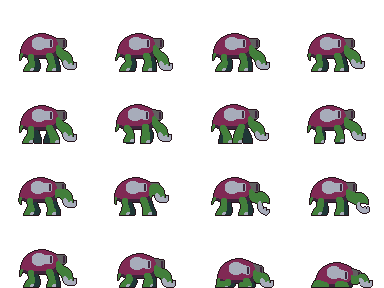
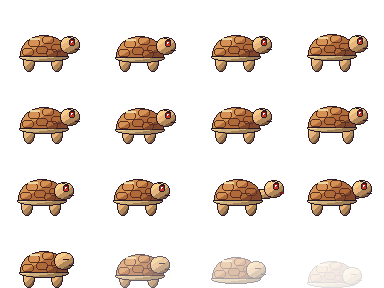
Tank and fast enemies redrawn in the hero's style (D218): desert turtle and centipede drawn by Scripts/Tools/draw_enemy_sheets.py — chibi proportions, hero's outline and light bands, red eye with an angry brow; same grid as D214, scenes untouched; the unknown-origin ChatGPT-folder art and its builde
Claude-Session: https://claude.ai/code/session_01A2gnDWaoeJGbj3GPH4dnCF

diff --git a/Scripts/Tools/draw_enemy_sheets.py b/Scripts/Tools/draw_enemy_sheets.py
@@ -1,0 +1,255 @@
+"""Малює листи спрайтів ворогів у стилі героя (D218): чибі-пропорції, темний контур, 3 тони світла згори зліва.
+
+Замість арту з теки «ChatGPT Image…» (D214, походження невідоме). Сітка та сама, що в D214, тож сцени
+enemy_tank.tscn / enemy_fast.tscn не змінюються: клітинка 96x72, ступні на нижньому рядку, морда праворуч,
+рядки idle / walk / attack / death.
+  tank = пустельна черепаха, 4 кадри на рядок; fast = багатоніжка, 6 кадрів (idle / walk / death — 4).
+Запуск: python Scripts/Tools/draw_enemy_sheets.py
+"""
+
+import math
+from PIL import Image
+
+OUT = "SampleProject/Assets/Characters/Enemies/"
+CW, CH = 96, 72
+GROUND = 71
+OUTLINE = (40, 23, 36, 255)  # контур героя
+LIGHT = (-0.55, -0.8)
+
+# Палітри: 4 тони від світлого до тіні (як у героя: світло, основа, тінь, глибока тінь).
+SKIN = [(244, 206, 138), (231, 181, 123), (175, 135, 89), (122, 88, 60)]
+SHELL = [(214, 146, 82), (176, 106, 58), (128, 70, 44), (88, 46, 34)]
+SHELL_RIM = [(240, 214, 160), (210, 178, 124), (160, 128, 86), (112, 86, 60)]
+CHITIN = [(226, 120, 70), (186, 78, 52), (132, 50, 42), (86, 32, 34)]
+BELLY = [(246, 214, 160), (222, 182, 128), (176, 136, 92), (128, 94, 66)]
+EYE_IRIS = (190, 38, 30, 255)
+
+
+class Canvas:
+    def __init__(self):
+        self.im = Image.new("RGBA", (CW, CH))
+        self.px = self.im.load()
+
+    def put(self, x, y, c):
+        if 0 <= x < CW and 0 <= y < CH:
+            self.px[x, y] = c if len(c) == 4 else c + (255,)
+
+    def part(self, mask, shade, outline=OUTLINE):
+        """Малює частину: тон за shade(x, y) -> 0..3, контур по краю маски (поверх того, що під нею)."""
+        for x, y in mask:
+            edge = any(
+                (x + dx, y + dy) not in mask
+                for dx, dy in ((1, 0), (-1, 0), (0, 1), (0, -1))
+            )
+            if edge:
+                self.put(x, y, outline)
+            else:
+                self.put(x, y, shade(x, y))
+
+
+def ellipse(cx, cy, rx, ry, angle=0.0):
+    ca, sa = math.cos(angle), math.sin(angle)
+    m = set()
+    for y in range(int(cy - max(rx, ry)) - 1, int(cy + max(rx, ry)) + 2):
+        for x in range(int(cx - max(rx, ry)) - 1, int(cx + max(rx, ry)) + 2):
+            dx, dy = x + 0.5 - cx, y + 0.5 - cy
+            u, v = dx * ca + dy * sa, -dx * sa + dy * ca
+            if (u / rx) ** 2 + (v / ry) ** 2 <= 1.0:
+                m.add((x, y))
+    return m
+
+
+def lit(cx, cy, rx, ry, pal, bias=0.0):
+    """Тон за нормаллю еліпса до світла: 3 смуги + глибока тінь знизу."""
+
+    def f(x, y):
+        nx, ny = (x + 0.5 - cx) / rx, (y + 0.5 - cy) / ry
+        d = nx * LIGHT[0] + ny * LIGHT[1] + bias
+        i = 0 if d > 0.45 else 1 if d > -0.1 else 2 if d > -0.6 else 3
+        return pal[i]
+
+    return f
+
+
+def flat(pal, i=1):
+    return lambda x, y: pal[i]
+
+
+def eye(c, x, y, look=1, closed=False):
+    """Кругле чибі-око як у героя: темний обідок, червона райдужка майже на все око, білий блік;
+    над ним зла брова, що опускається до носа. (x, y) — верхній лівий кут 6x7."""
+    if closed:
+        for i in range(6):
+            c.put(x + i, y + 4, OUTLINE)
+        return
+    c.part(ellipse(x + 3, y + 3.5, 3.4, 3.8), lambda px, py: (150, 30, 28) if py < y + 4 else (196, 58, 38))
+    c.put(x + 1 + max(look, 0), y + 2, (255, 255, 255))
+    c.put(x + 2 + max(look, 0), y + 2, (255, 255, 255))
+    c.put(x + 1 + max(look, 0), y + 3, (255, 255, 255))
+    for i in range(7):
+        c.put(x - 1 + i, y - 2 + i // 3, OUTLINE)
+
+
+# ── Черепаха (tank) ──────────────────────────────────────────────────────────
+
+
+def turtle(pose, t):
+    """pose: idle / walk / windup / strike / recover / death; t — фаза 0..1 усередині пози."""
+    c = Canvas()
+    bob = round(math.sin(t * math.tau)) if pose in ("idle", "walk") else 0
+    lean = {"windup": -3, "strike": 4, "recover": 1}.get(pose, 0)
+    sink = int(t * 10) if pose == "death" else 0
+    cx = 44 + lean // 2
+    shell_cy = GROUND - 22 + bob + sink
+    # ноги — короткі стовпчики, верх ховається під панцир; у ході переступають
+    step = math.sin(t * math.tau) * 3 if pose == "walk" else 0
+    if pose != "death" or t < 0.5:
+        for lx, ph in ((cx - 15, step), (cx + 13, -step)):
+            leg = ellipse(lx + ph, GROUND - 9, 6, 10)
+            c.part({p for p in leg if p[1] <= GROUND}, lit(lx + ph, GROUND - 9, 6, 10, SKIN))
+    # голова на шиї: тягнеться вперед в ударі, ховається в замаху
+    head_dx = {"windup": -4, "strike": 10, "recover": 4, "death": -6}.get(pose, 0)
+    hx = cx + 26 + head_dx
+    hy = shell_cy - 4 + (2 if pose == "windup" else 0) + sink // 2
+    nx = (cx + 14 + hx) / 2
+    nrx = abs(hx - cx - 14) / 2 + 4
+    c.part(ellipse(nx, hy + 5, nrx, 5), lit(nx, hy + 5, nrx, 5, SKIN))
+    # панцир: ребро знизу і купол
+    c.part(ellipse(cx, shell_cy + 8, 25, 5), lit(cx, shell_cy + 8, 25, 5, SHELL_RIM, 0.2))
+    dome = {p for p in ellipse(cx, shell_cy + 6, 24, 20) if p[1] <= shell_cy + 7}
+    c.part(dome, lit(cx, shell_cy + 6, 24, 20, SHELL))
+    # пластини: обведені тінню овали на куполі
+    for (px, py) in [(cx - 10, shell_cy - 6), (cx + 4, shell_cy - 9), (cx - 2, shell_cy + 1),
+                     (cx + 13, shell_cy - 1), (cx - 16, shell_cy + 3), (cx + 8, shell_cy + 4)]:
+        plate = ellipse(px, py, 6, 4.5)
+        for (x, y) in plate:
+            if (x, y) in dome and any((x + dx, y + dy) not in plate for dx, dy in ((1, 0), (-1, 0), (0, 1), (0, -1))):
+                c.put(x, y, SHELL[3])
+    for (x, y) in ellipse(cx - 9, shell_cy - 10, 5, 1.5):  # блік на маківці
+        if (x, y) in dome:
+            c.put(x, y, SHELL_RIM[0])
+    # голова: велика, кругла, чибі
+    c.part(ellipse(hx, hy, 10, 9), lit(hx, hy, 10, 9, SKIN))
+    eye(c, hx - 1, hy - 6, 1, closed=pose == "death")
+    # рот: відкритий в ударі
+    if pose == "strike":
+        for i in range(5):
+            c.put(hx + 6 + i // 2, hy + 4 + (i % 2), OUTLINE)
+        for (x, y) in ellipse(hx + 8, hy + 4, 2.2, 1.4):
+            c.put(x, y, (120, 30, 36))
+    else:
+        for i in range(5):
+            c.put(hx + 5 + i, hy + 4, OUTLINE)
+    if pose == "death":
+        _fade(c, 1.0 - t * 0.85)
+    return c.im
+
+
+# ── Багатоніжка (fast) ───────────────────────────────────────────────────────
+
+
+def centipede(pose, t):
+    c = Canvas()
+    n = 6
+    wave = t * math.tau
+    rear = {"windup": -6, "strike": 8, "recover": 3}.get(pose, 0)
+    sink = int(t * 8) if pose == "death" else 0
+    segs = []
+    for i in range(n):
+        x = 14 + i * 9 + (rear * i / (n - 1))
+        amp = 2 if pose == "walk" else 1 if pose == "idle" else 0
+        y = GROUND - 10 - round(math.sin(wave + i * 0.9) * amp) + sink
+        if pose == "windup":
+            y -= int(i * i * 0.7)  # передні сегменти здіймаються, як кобра
+        elif pose == "strike":
+            y -= int(i * 0.6)
+        segs.append((x, y))
+    body = segs[:-1]
+    # ніжки: косі, по дві на сегмент, кінчики світлі; у ході — переступають
+    if pose != "death" or t < 0.4:
+        for i, (x, y) in enumerate(body):
+            if y < GROUND - 16:
+                continue  # піднятий сегмент — ніжки в повітрі не малюємо
+            k = (1 if (i + int(t * 4)) % 2 == 0 else -1) if pose == "walk" else 0
+            for dx in (-3, 2):
+                x0, x1 = x + dx, x + dx - 2 + k
+                for yy in range(y + 4, GROUND + 1):
+                    f = (yy - y - 4) / max(GROUND - y - 4, 1)
+                    c.put(round(x0 + (x1 - x0) * f), yy, OUTLINE)
+                c.put(x1, GROUND, CHITIN[0] + (255,))
+    # сегменти від хвоста до голови, через один — темніша смуга
+    for i, (x, y) in enumerate(body):
+        r = 6 if i else 5
+        pal = CHITIN if i % 2 else [CHITIN[1], CHITIN[2], CHITIN[3], OUTLINE[:3]]
+        c.part(ellipse(x, y, r + 0.5, 7), lit(x, y, r + 0.5, 7, pal))
+        for (px, py) in ellipse(x, y + 5, r - 2, 1.4):
+            c.put(px, py, BELLY[1])
+        c.put(x - 1, y - 4, CHITIN[0] + (255,))
+        c.put(x, y - 4, CHITIN[0] + (255,))
+    hx, hy = segs[-1]
+    hx += 5
+    hy -= 4
+    # вусики назад-угору
+    for i in range(8):
+        c.put(hx - 2 - i // 2, hy - 8 - i, OUTLINE)
+    head = ellipse(hx, hy, 9, 8)
+    c.part(head, lit(hx, hy, 9, 8, CHITIN))
+    eye(c, hx - 1, hy - 5, 1, closed=pose == "death")
+    # жвала: два серпи, розкриті в замаху, зімкнені в ударі
+    open_ = {"windup": 3, "strike": 0, "recover": 1}.get(pose, 2)
+    for k in (-1, 1):
+        y0 = hy + 3 + (1 if k > 0 else 0)
+        for i in range(5):
+            yy = y0 + k * (open_ - (i * open_) // 4) if open_ else y0 + k * (1 if i < 2 else 0)
+            c.put(hx + 7 + i, yy, (250, 236, 200, 255))
+            c.put(hx + 7 + i, yy + k, OUTLINE)
+    if pose == "death":
+        _fade(c, 1.0 - t * 0.85)
+    return c.im
+
+
+def _fade(c, alpha):
+    for y in range(CH):
+        for x in range(CW):
+            r, g, b, a = c.px[x, y]
+            if a:
+                c.px[x, y] = (r, g, b, int(a * alpha))
+
+
+def sheet(draw, rows, cols):
+    out = Image.new("RGBA", (cols * CW, len(rows) * CH))
+    for y, frames in enumerate(rows):
+        for x, (pose, t) in enumerate(frames):
+            out.alpha_composite(draw(pose, t), (x * CW, y * CH))
+    return out
+
+
+def loop(pose, k):
+    return [(pose, i / k) for i in range(k)]
+
+
+# Кадри атаки збігаються з ключами анімацій у сценах (tank: 0 / 0.35 / 0.7 / 0.82 с; fast: 6 рівних).
+TANK = [
+    loop("idle", 4),
+    loop("walk", 4),
+    [("windup", 0), ("windup", 1), ("strike", 0), ("recover", 0)],
+    [("death", i / 3) for i in range(4)],
+]
+FAST = [
+    loop("idle", 4),
+    loop("walk", 4),
+    [
+        ("windup", 0),
+        ("windup", 1),
+        ("windup", 1),
+        ("strike", 0),
+        ("strike", 0),
+        ("recover", 0),
+    ],
+    [("death", i / 3) for i in range(4)],
+]
+
+if __name__ == "__main__":
+    sheet(turtle, TANK, 4).save(OUT + "battle_turtle/sheet.png")
+    sheet(centipede, FAST, 6).save(OUT + "centipede/sheet.png")
+    print("drawn", OUT)

diff --git a/design/figma_decision_register.md b/design/figma_decision_register.md
@@ -384,3 +384,4 @@ carry that bug.
 | D215 | TECH | **Combat reads as dodge-and-punish, not hit-and-step-back** (critics' review; Sapega «Роби», 2026-10-18). Mock numbers: an enemy **turns to the hero for the first 60 % of its wind-up**, then the direction is committed — stepping aside no longer dodges, a roll behind it in the last 40 % does. **Roll** 0.30 s / 170 px (was 0.35 / 120; faster than running), invulnerable for all of it. While swinging the hero moves at **40 %** speed. **Air attacks land** — Jump / Fall no longer cancel the swing. **Tank shell:** a hit from the side it faces deals **30 %** (`EnemyStats.front_damage`), burn and hits from behind full. **Sounds** from Brackeys' CC0 pack: `tap.wav` on every hit on an enemy, `hurt.wav` when the hero is hit; the pack has no swing / wind-up sound — open. |
 | D216 | TECH | **Enemy HP bars and the floor top** (critics' review; Sapega «Роби», 2026-10-18). Enemy HP bar: one thin 64 × 6 bar, no text, hidden until the enemy first takes damage, auto-hides 3 s after (`enemy_health_bar.tscn`; the nested second `HealthBar` that also joined the `health_bar` group is gone, and the fill style is local to each bar — before, one enemy's colour repainted every bar). Floor: the Brackeys top tiles in `DesertTiles.png` (atlas 7..9, 6) are one continuous sand strip with no black frames between blocks; the black outline in the sand part of the atlas is dark sand `#6b4a2b` — rebuilt by `Scripts/Tools/repaint_floor_tiles.py` from the same pack's colours. |
 | D217 | TECH | **Combat sounds from Kenney's CC0 packs** (closes D215's open swing / wind-up sound; Sapega «зі списку бери звуки», 2026-10-18). Full packs with their `License.txt` in `assets/kenney_*` (gitignored); the used files are in `SampleProject/Assets/Audio/SFX/` with a README. Hero swing `knifeSlice*`, enemy wind-up `drawKnife*` (the cue that it is about to strike), hit on an enemy `impactPunch_medium_*`, heavy hit `impactPunch_heavy_*`, hero hurt `impactSoft_heavy_*` — a random variant each time, all from `VFXHooks`. Replaces D215's Brackeys `tap` / `hurt`. |
+| D218 | OVERRIDE | **Tank and fast enemies redrawn in the game's style** (amends D214; Sapega «візьми інші арти черепахи і багатоніжки шоб співпадало з стилем гри… якщо ти програмно можеш це намалювати то зроби це», 2026-10-18). `Scripts/Tools/draw_enemy_sheets.py` draws both sheets: a desert turtle (tank — head pulls in on the wind-up, neck shoots out on the strike) and a centipede (fast — front segments rear up like a cobra, mandibles open, then snap). Hero's palette rules: 1-px outline (40, 23, 36), three light bands from the top left, round red eye with a highlight, angry brow. Same grid and frame keys as D214, so the scenes are untouched. The `ChatGPT Image…` art is no longer used. |

diff --git a/SampleProject/Assets/Characters/Enemies/README.md b/SampleProject/Assets/Characters/Enemies/README.md
@@ -1,11 +1,15 @@
-# Enemy art by type (D208, D210, D214)
+# Enemy art by type (D208, D214, D218)
 
-| Type | Sheet | Source | Licence |
-|---|---|---|---|
-| tank | `battle_turtle/sheet.png` | `assets/ChatGPT Image Jul 30, 2025, 06_51_40 PM-autotile/2 Battle turtle/` idle, walk, attack2, death | **not found** in the folder (looks like a craftpix desert-enemies pack) — verify before release |
-| fast | `centipede/sheet.png` | same folder, `1 Centipede/` idle, walk, attack3, death | **not found** — verify |
-| melee | `Scripts/Systems/character-spritesheet (4).png` (unchanged, `default_enemy.tscn`) | — | — |
+| Type | Sheet | Source |
+|---|---|---|
+| tank | `battle_turtle/sheet.png` | drawn by `Scripts/Tools/draw_enemy_sheets.py` — desert turtle in the hero's style (D218) |
+| fast | `centipede/sheet.png` | drawn by the same script — centipede, rears up like a cobra in the wind-up |
+| melee | `Scripts/Systems/character-spritesheet (4).png` (unchanged, `default_enemy.tscn`) | — |
 
-Sheets are built by `Scripts/Tools/build_enemy_sheets.py`: rows idle / walk / attack / death, 96×72 cells,
-frames mirrored (the pack draws them facing left, the game expects right), the idle body centred.
-Unused in the same folder: `3 Big bloated`, the turtle's cannon shot (`attack3`, for a ranged type, Q35).
+Original work for this project, no third-party licence. Style matched to the hero (`Sprites/Player`): chibi
+proportions, 1-px outline (40, 23, 36), three light bands from the top left, round red eye with a
+white highlight, an angry brow so it reads as an enemy. Grid kept from D214 so the scenes did not change: rows
+idle / walk / attack / death, 96×72 cells, feet on the bottom row, facing right; attack frames match the scene keys.
+
+The earlier sheets came from `assets/ChatGPT Image Jul 30, 2025…-autotile/` (origin unknown, D214) —
+`Scripts/Tools/build_enemy_sheets.py` is removed with them.
